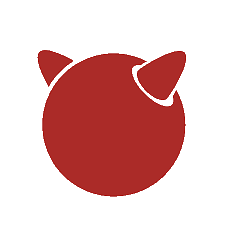
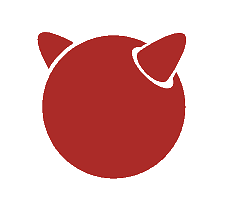
Add files via upload

Changed region(s): [[0.1556, 0.1449, 0.84, 0.5217], [0.1867, 0.5507, 0.84, 0.8986]]

diff --git a/home/user/.config/hypr/waybar/dark.css b/home/user/.config/hypr/waybar/dark.css
@@ -218,7 +218,7 @@ window#waybar.empty #window {
     background-image: url("/home/void/.config/hypr/waybar/freebsd.png");
     background-position: center;
     background-repeat: no-repeat;
-    background-size: 37px; 
+    background-size: 30px; 
     margin: 3px 3px 3px 3px;
 }
 
